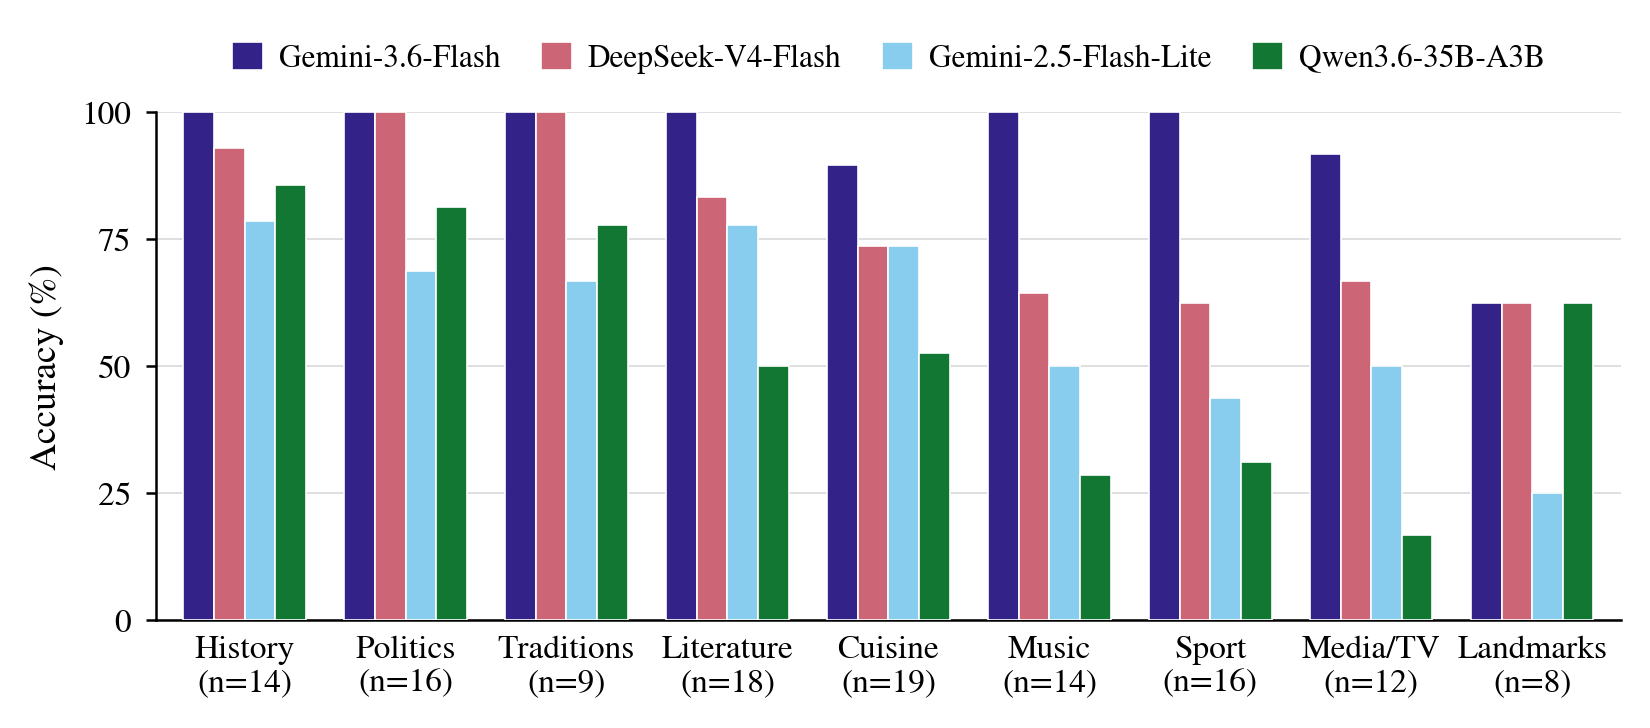
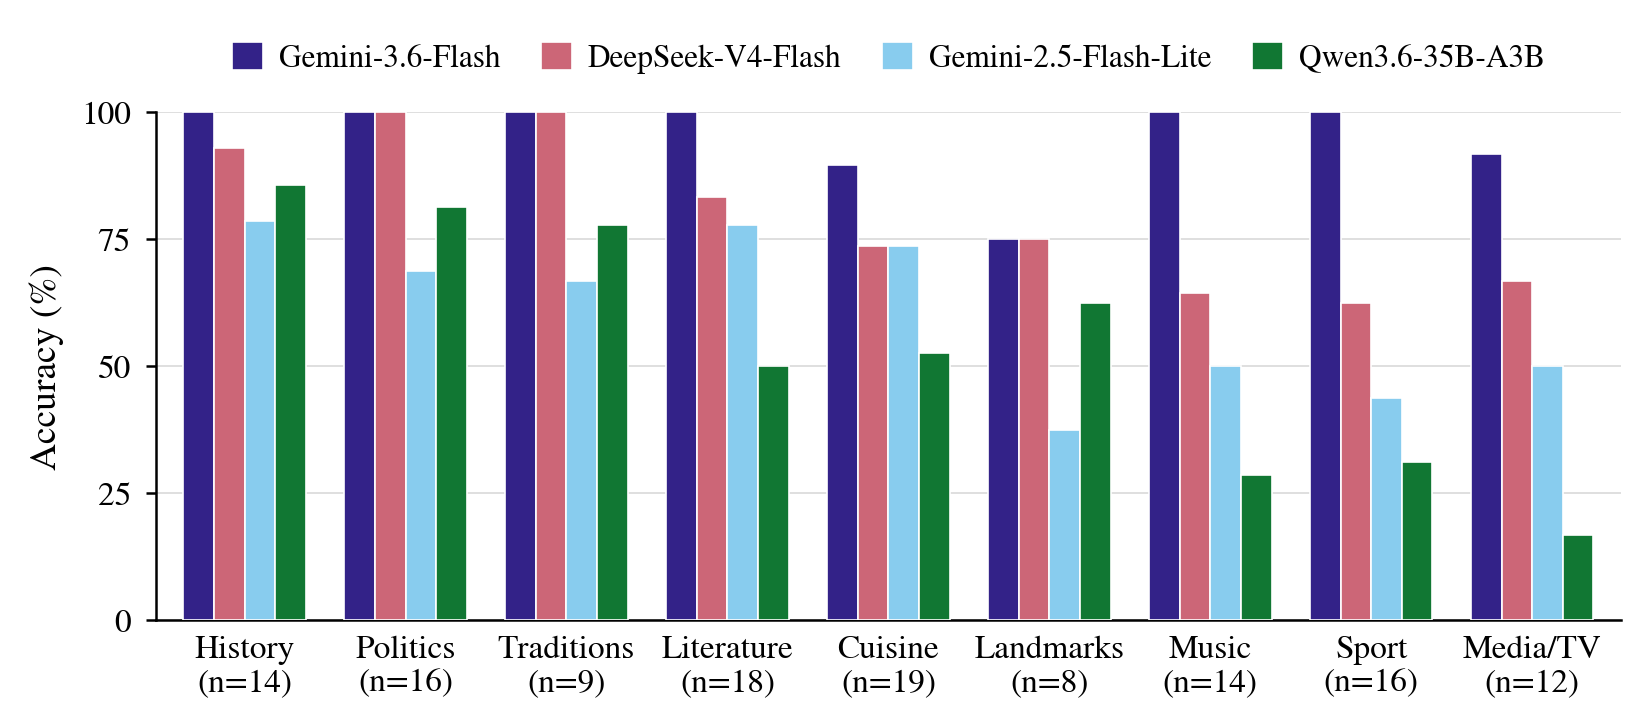
Fix gold spelling for Q118 (Asos -> Assos) in data and output copies; re-run analyses
All four Gemini runs and DeepSeek answered 'Assos' and are now scored correct;
Qwen remains correct (its reasoning mentions Assos). Updated analyses, figures
and the prompt-ablation table accordingly.

diff --git a/paper/tables/prompt_ablation.tex b/paper/tables/prompt_ablation.tex
@@ -7,8 +7,8 @@
     \toprule
     Model & TR (\%) & EN (\%) & $\Delta$ \\
     \midrule
-    Gemini-3.6-Flash & 95.2 & 96.8 & +1.6 \\
-    Gemini-2.5-Flash-Lite & 61.9 & 65.9 & +4.0 \\
+    Gemini-3.6-Flash & 96.0 & 97.6 & +1.6 \\
+    Gemini-2.5-Flash-Lite & 62.7 & 66.7 & +4.0 \\
     \bottomrule
   \end{tabular}
 \end{table}
